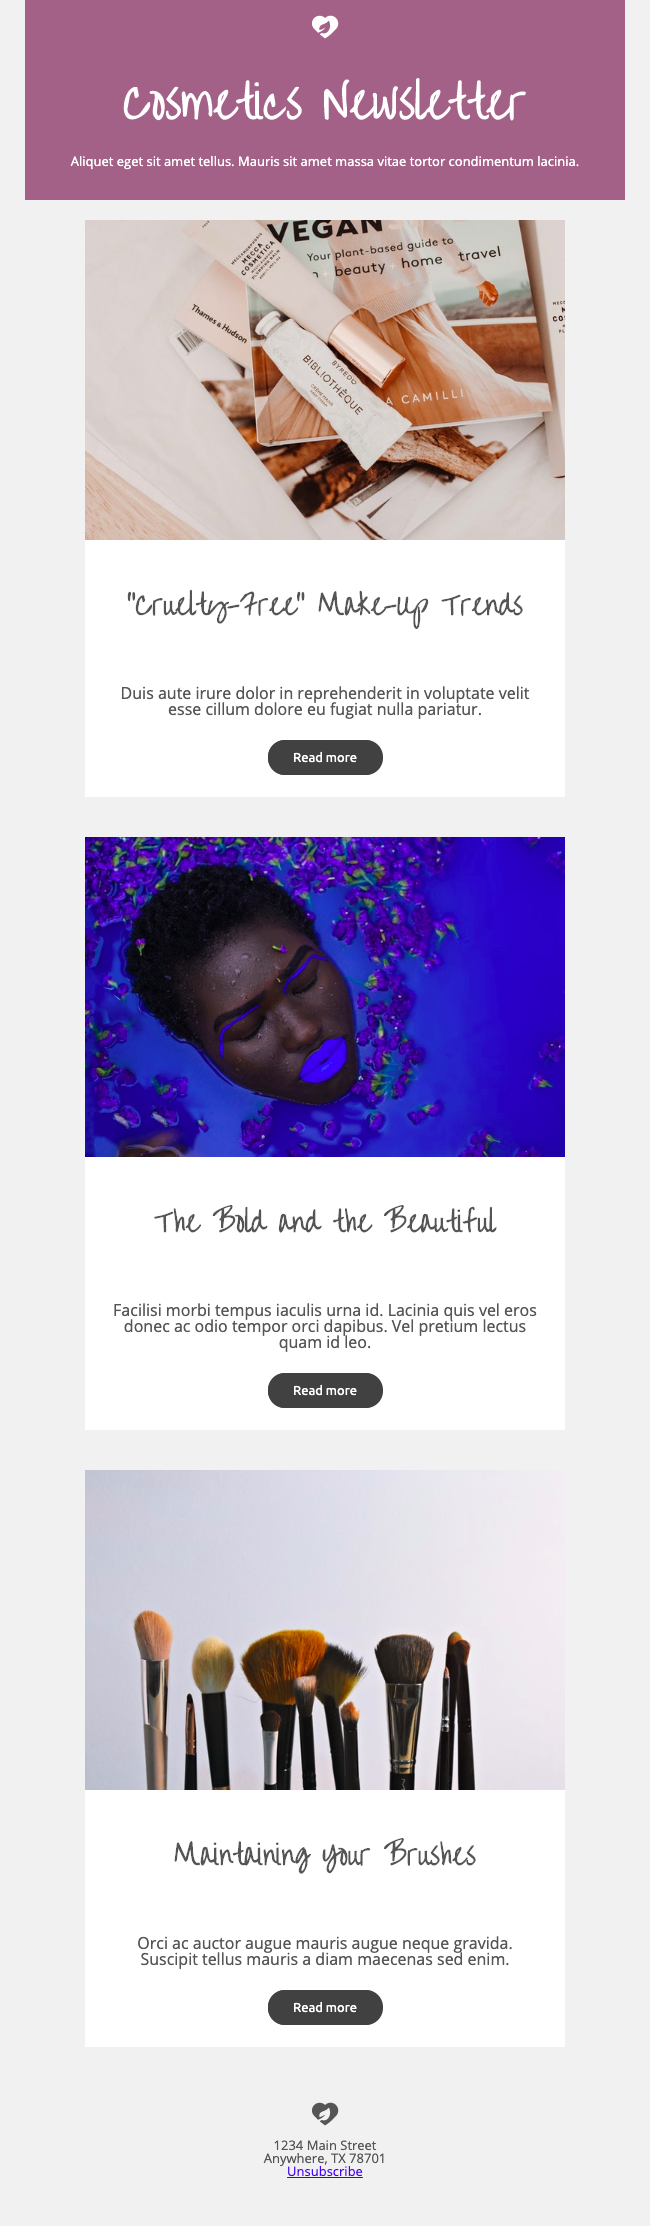
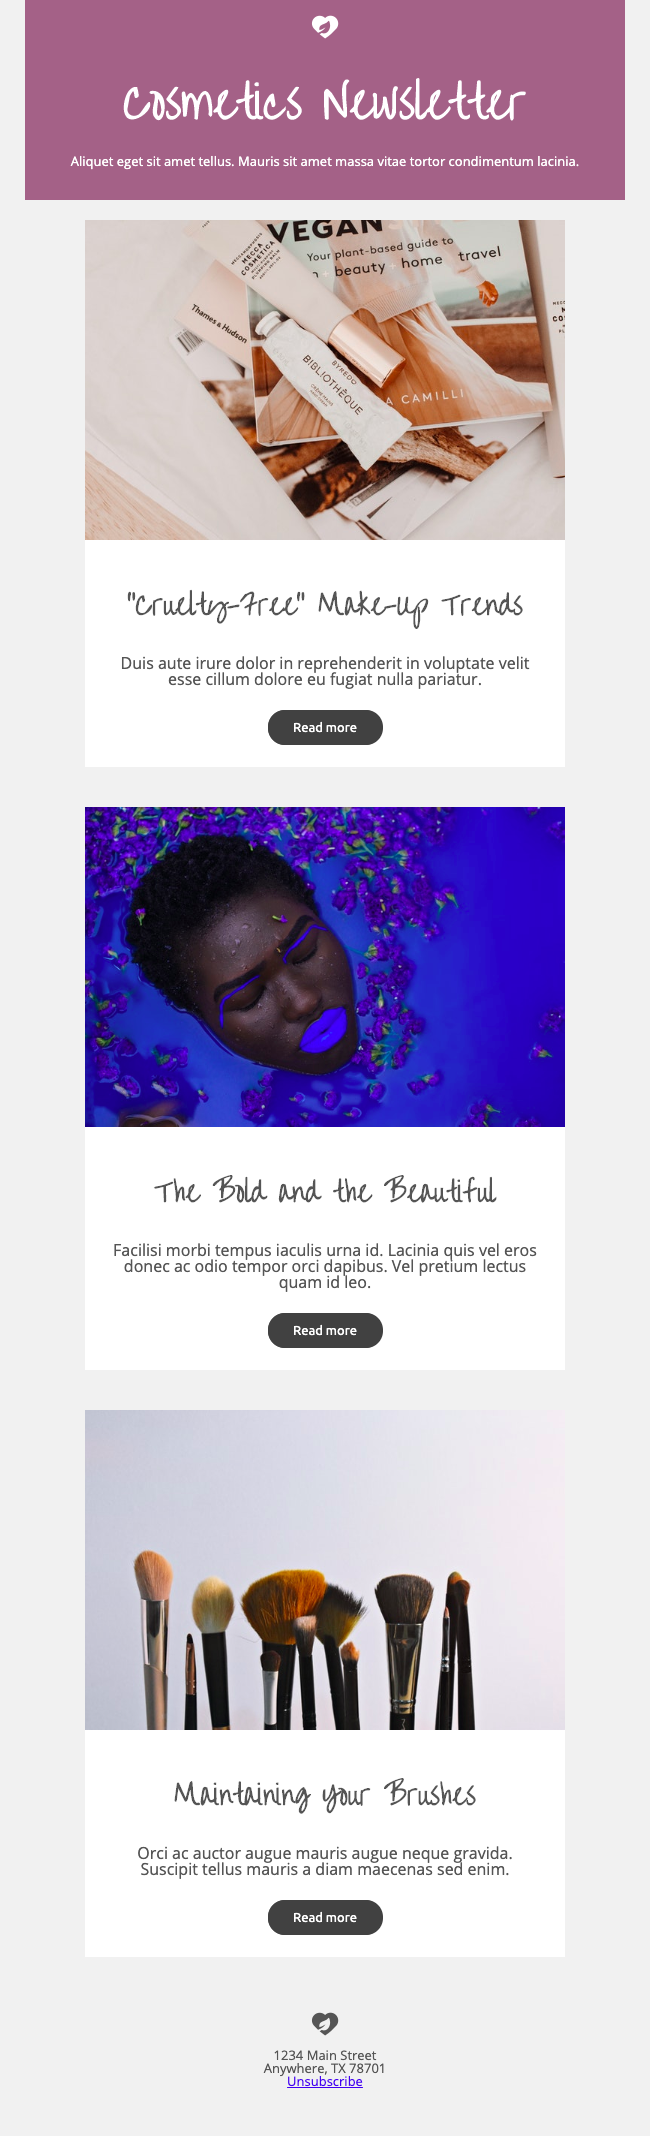
Adjusting margin on h2in newsletter - cosmetics and updating rendered file and screenshots to reflect the change

diff --git a/Newsletter - Cosmetics Beauty Make-Up/newsletter-cosmetics.html b/Newsletter - Cosmetics Beauty Make-Up/newsletter-cosmetics.html
@@ -266,7 +266,7 @@
           
             <tr>
               <td
-                 align="center" style="background:#ffffff;font-size:0px;padding:30px 22px;word-break:break-word;"
+                 align="center" style="background:#ffffff;font-size:0px;padding:30px 22px 0px 22px;word-break:break-word;"
               >
                 
       <div
@@ -438,7 +438,7 @@
           
             <tr>
               <td
-                 align="center" style="background:#ffffff;font-size:0px;padding:30px 22px;word-break:break-word;"
+                 align="center" style="background:#ffffff;font-size:0px;padding:30px 22px 0px 22px;word-break:break-word;"
               >
                 
       <div
@@ -610,7 +610,7 @@
           
             <tr>
               <td
-                 align="center" style="background:#ffffff;font-size:0px;padding:30px 22px;word-break:break-word;"
+                 align="center" style="background:#ffffff;font-size:0px;padding:30px 22px 0px 22px;word-break:break-word;"
               >
                 
       <div

diff --git a/README.md b/README.md
@@ -8,10 +8,10 @@
 #### Cosmetics
 
 ##### Desktop
-![Desktop preview of cosmetics newsletter template](https://res.cloudinary.com/tashayar/image/upload/v1588975169/Email%20Templates/Previews/newsletter-cosmetics-index-desktop.png)
+![Desktop preview of cosmetics newsletter template](https://res.cloudinary.com/tashayar/image/upload/v1588975585/Email%20Templates/Previews/newsletter-cosmetics-index-desktop.png)
 
 ##### Mobile
-![Mobile preview of cosmetics newsletter template](https://res.cloudinary.com/tashayar/image/upload/v1588975169/Email%20Templates/Previews/newsletter-cosmetics-index-mobile.png)
+![Mobile preview of cosmetics newsletter template](https://res.cloudinary.com/tashayar/image/upload/v1588975585/Email%20Templates/Previews/newsletter-cosmetics-index-mobile.png)
 
 
 #### Tech
